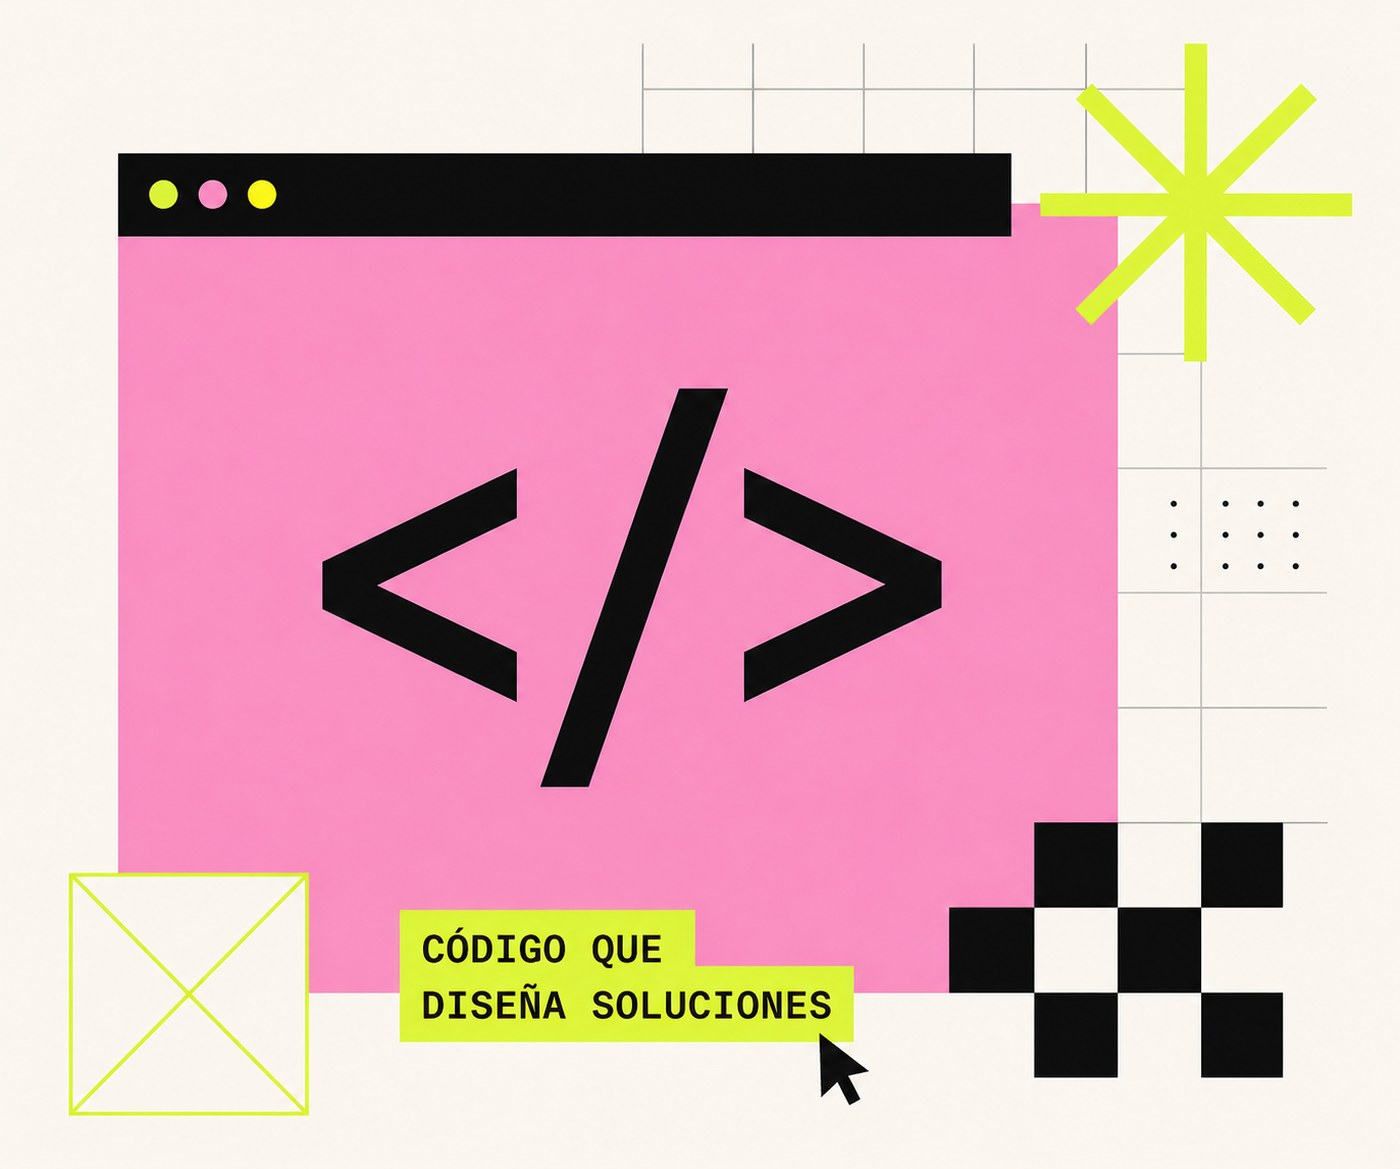
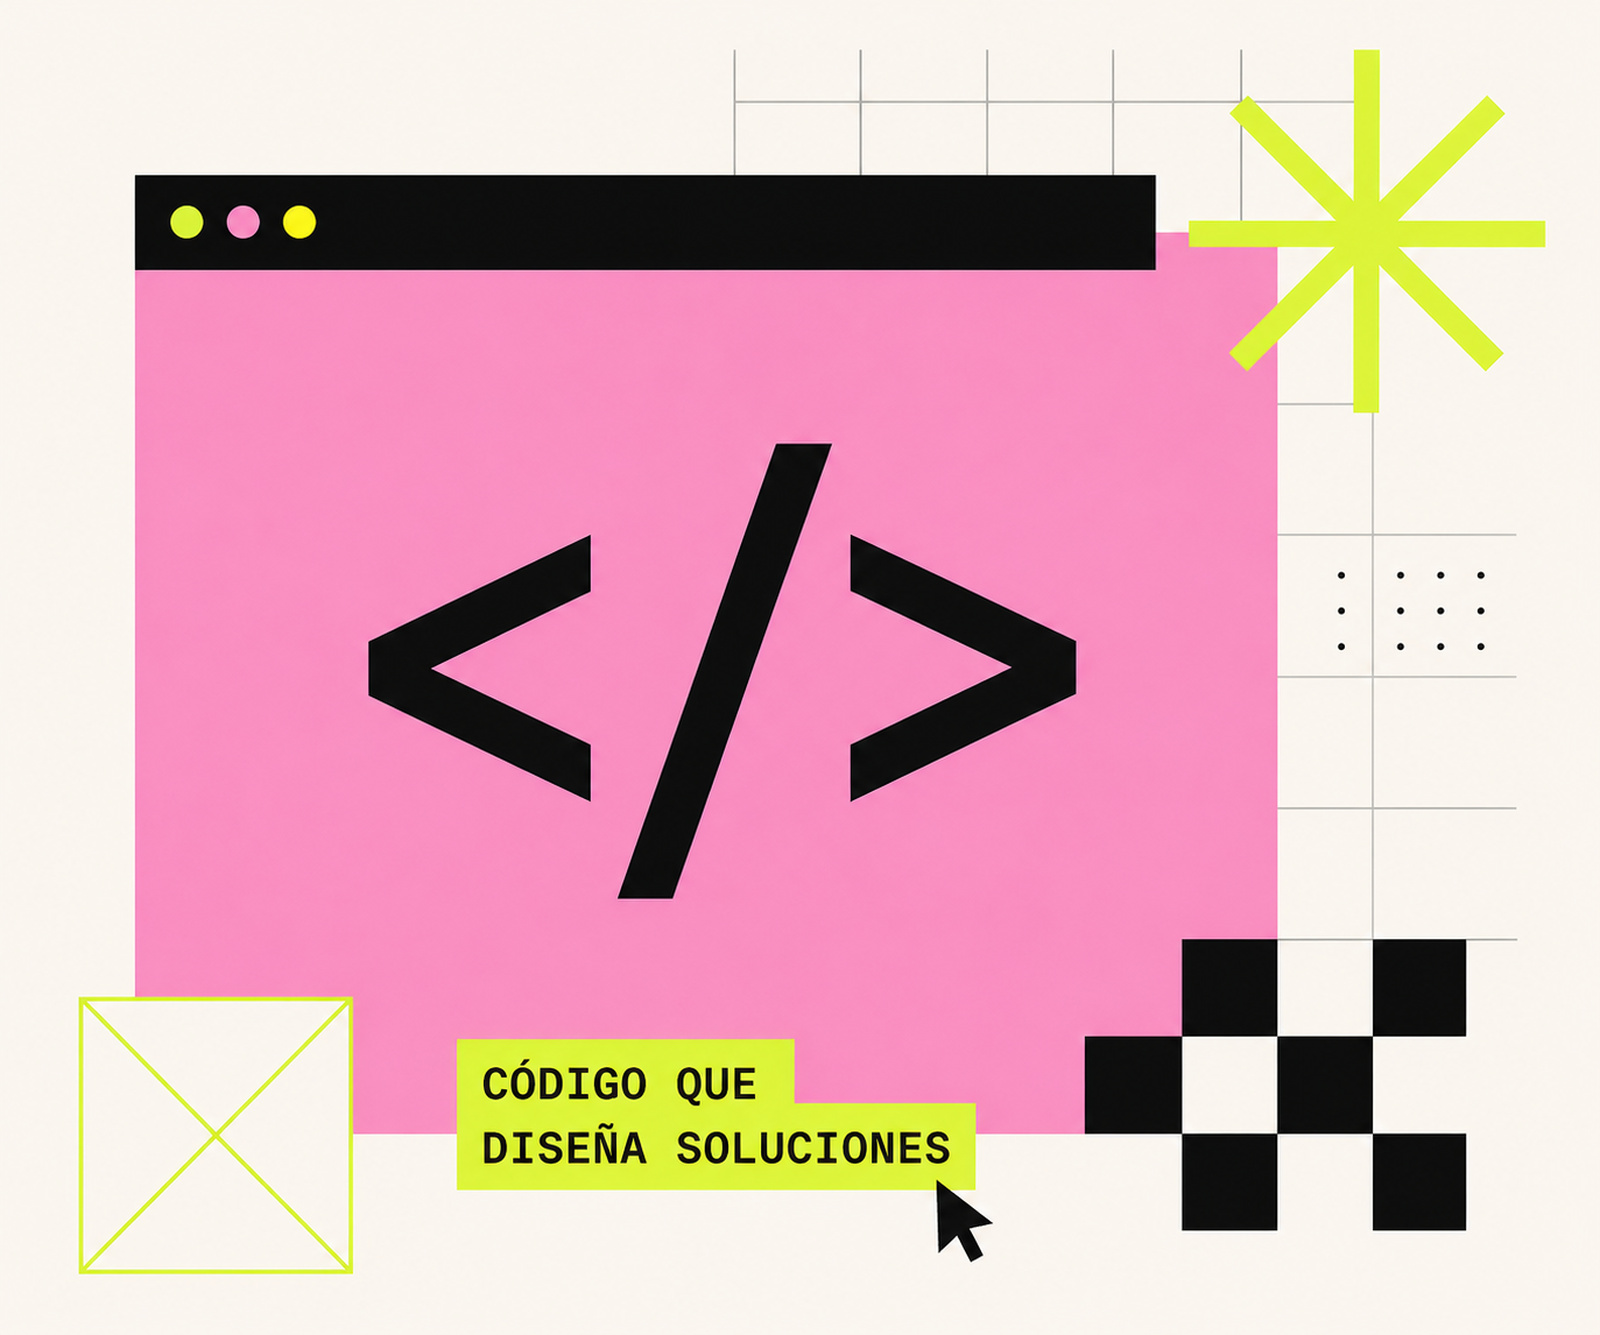
Hero: ilustración re-exportada en alta calidad
Misma composición, ahora a 1600x1335 y con compresión
suave (calidad 95, sin submuestreo de color) para que
los bordes duros y el texto del cartel no tengan
artefactos. Se ajustan las medidas en el markup y el CSS.

diff --git a/index.html b/index.html
@@ -160,7 +160,7 @@
         COMPOSICIÓN VISUAL DEL HERO
         Ilustración propia (no fotografía personal).
         Para cambiarla: reemplazar assets/hero-visual.jpg
-        manteniendo la proporción 1400 x 1169.
+        manteniendo la proporción 1600 x 1335.
         ============================================
     -->
 
@@ -169,8 +169,8 @@
         <img
             src="assets/hero-visual.jpg"
             alt="Ilustración de una ventana de navegador rosa con el símbolo de código y el lema código que diseña soluciones"
-            width="1400"
-            height="1169"
+            width="1600"
+            height="1335"
             fetchpriority="high"
             decoding="async"
         >

diff --git a/styles.css b/styles.css
@@ -707,7 +707,7 @@ section[id] {
 
 .hero-visual {
     position: relative;
-    aspect-ratio: 1400 / 1169;
+    aspect-ratio: 1600 / 1335;
     max-height: 640px;
     background: transparent;
     border: 0;

diff --git a/assets/README.md b/assets/README.md
@@ -6,7 +6,7 @@ el sitio muestra el contenedor reservado con la ruta esperada
 
 | Archivo | Dónde se usa | Proporción sugerida | Medida recomendada |
 | --- | --- | --- | --- |
-| `hero-visual.jpg` | Composición del hero | ~6:5 | 1400 × 1169 px |
+| `hero-visual.jpg` | Composición del hero | ~6:5 | 1600 × 1335 px |
 | `nuve-main.jpg` | NÜVE · captura general (home) | 16:9 | 1600 × 900 px |
 | `nuve-1.jpg` | NÜVE · catálogo | 4:3 | 800 × 600 px |
 | `nuve-2.jpg` | NÜVE · panel admin (productos) | 4:3 | 800 × 600 px |
